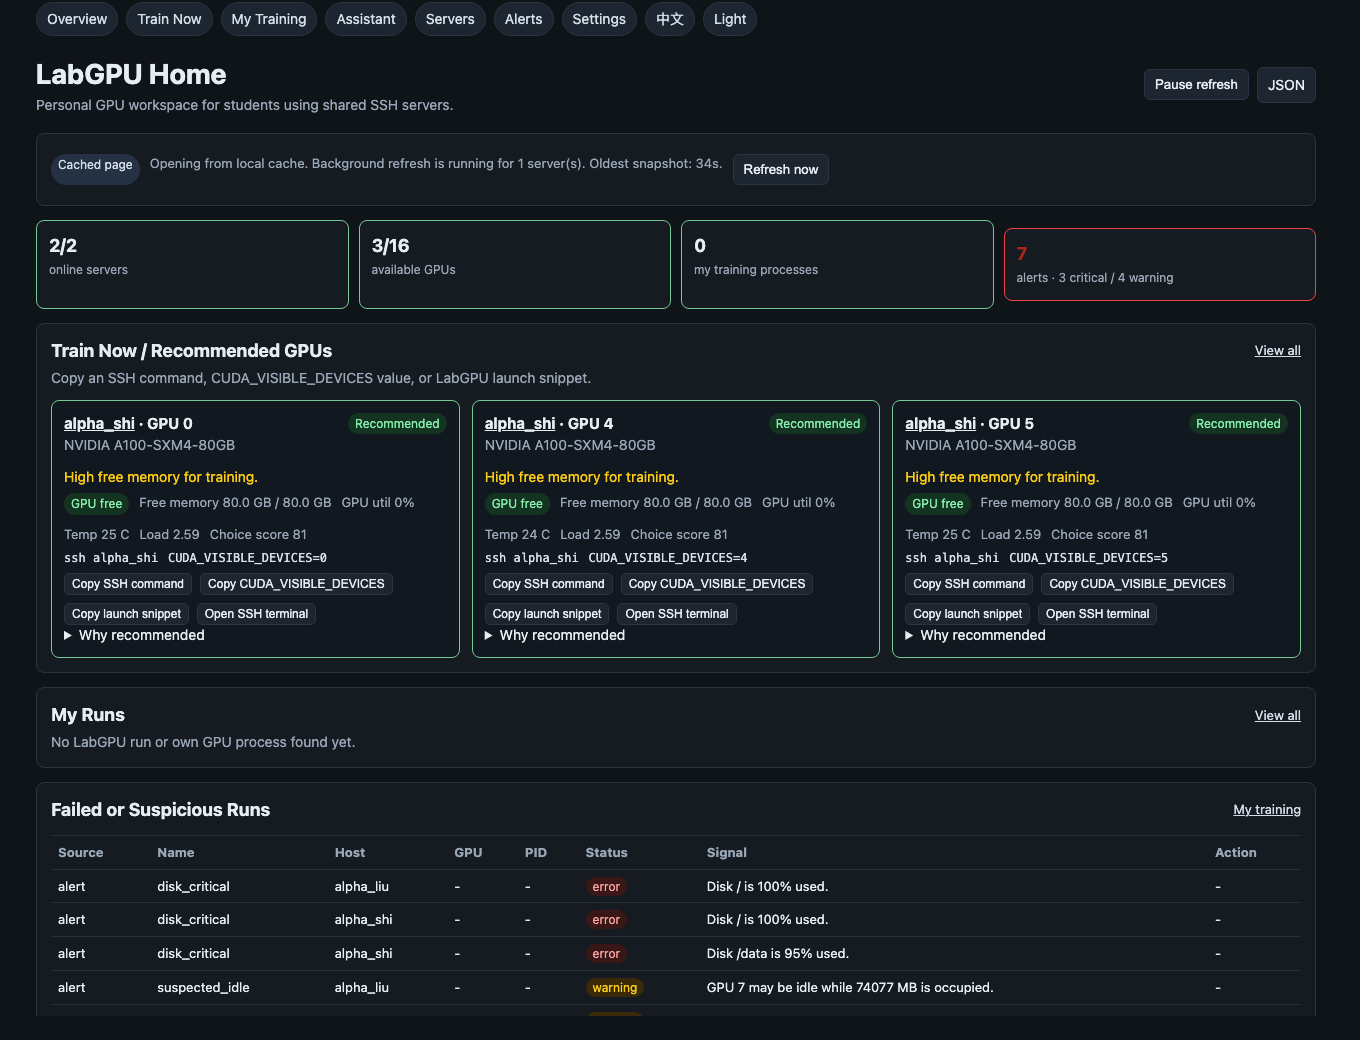
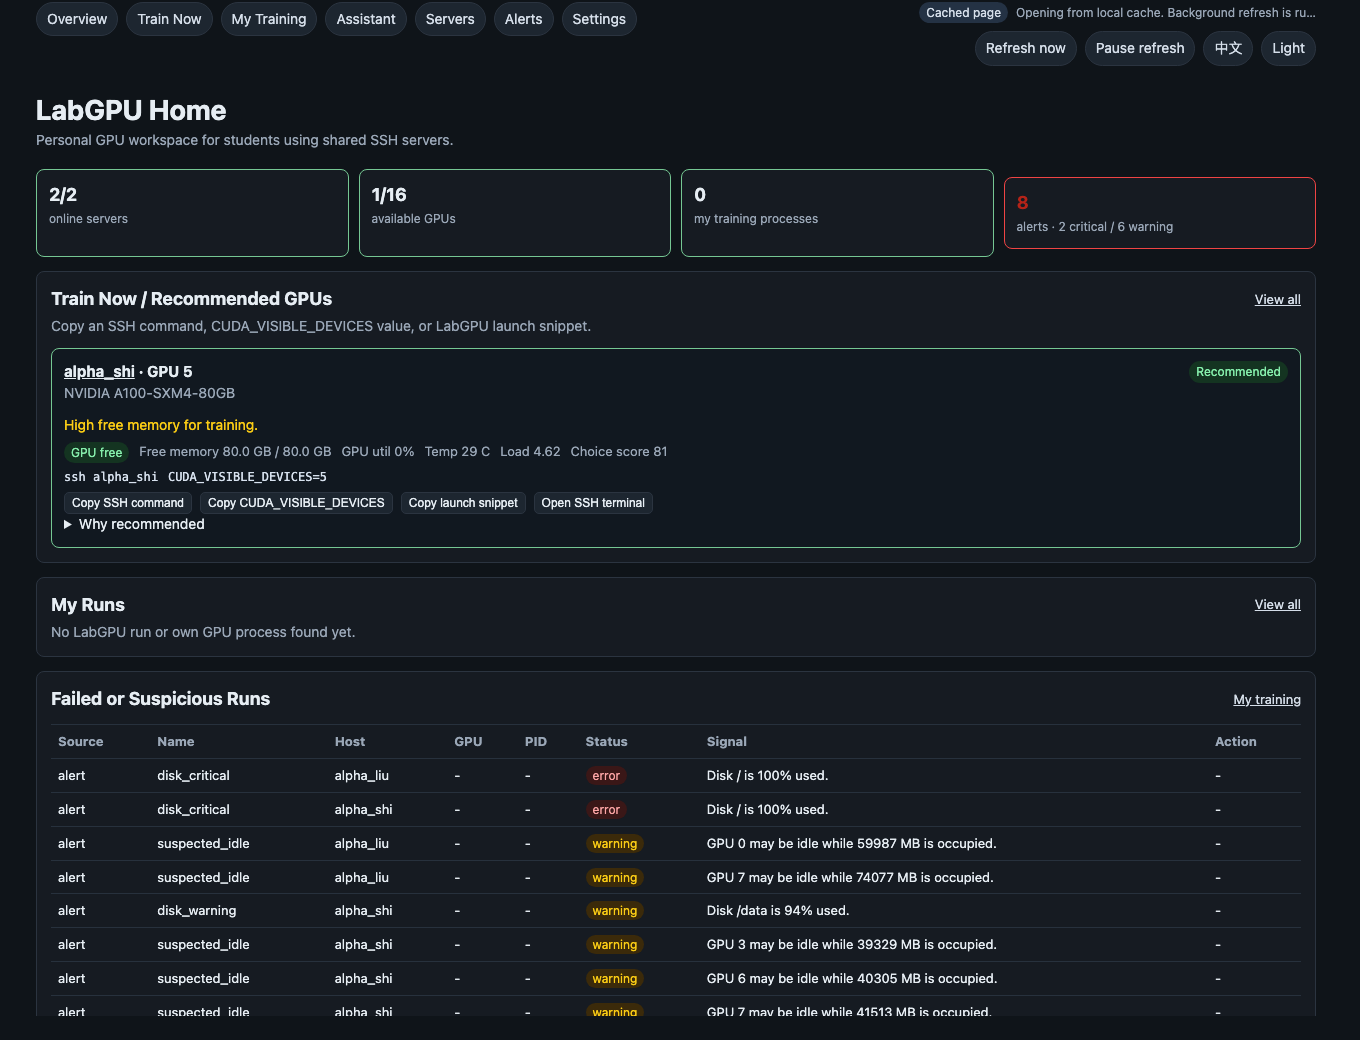
Move UI controls to top bar

diff --git a/src/labgpu/remote/dashboard.py b/src/labgpu/remote/dashboard.py
@@ -504,12 +504,7 @@ def render_index(data: dict[str, object]) -> str:
             <h1>LabGPU Home</h1>
             <p>Personal GPU workspace for students using shared SSH servers.</p>
           </div>
-          <div class="actions">
-            <button class="button" id="pause-refresh" type="button">Pause refresh</button>
-            <a class="button" href="/api/servers">JSON</a>
-          </div>
         </section>
-        {render_data_status(data)}
         {render_overview(overview)}
         {render_train_now(overview, limit=4)}
         {render_my_training(training_items(hosts, overview), limit=8, view_all='/me')}
@@ -517,6 +512,7 @@ def render_index(data: dict[str, object]) -> str:
         {render_alerts(overview.get('alert_items') if isinstance(overview, dict) else [], limit=8, view_all='/alerts', title='Problems')}
         <section class="panel"><div class="section-head"><h2>Servers</h2><a href="/settings">Choose home servers</a></div><p class="muted">{esc(server_note)}</p><div class="grid compact">{cards}</div></section>
         """,
+        status=render_data_status(data),
     )
 
 
@@ -531,13 +527,12 @@ def render_gpus_page(data: dict[str, object]) -> str:
             <h1>Train Now</h1>
             <p>Rank GPUs across SSH hosts by GPU availability, free VRAM, model, load, and tags.</p>
           </div>
-          <div class="actions"><button class="button" id="pause-refresh" type="button">Pause refresh</button><a class="button" href="/">Overview</a></div>
         </section>
-        {render_data_status(data)}
         {render_filters(ui, kind='gpus')}
         {render_gpu_watch_panel(ui)}
         {render_gpu_finder(overview, ui)}
         """,
+        status=render_data_status(data),
     )
 
 
@@ -553,13 +548,12 @@ def render_me_page(data: dict[str, object]) -> str:
             <h1>My Training</h1>
             <p>Your LabGPU runs, adopted runs, and agentless GPU processes across SSH servers.</p>
           </div>
-          <div class="actions"><button class="button" id="pause-refresh" type="button">Pause refresh</button><a class="button" href="/">Overview</a></div>
         </section>
-        {render_data_status(data)}
         {render_process_filters(ui)}
         {render_my_training(training_items(hosts, overview), ui=ui)}
         {render_my_processes(overview.get('my_process_items') if isinstance(overview, dict) else [], ui=ui, title='Agentless Own GPU Processes')}
         """,
+        status=render_data_status(data),
     )
 
 
@@ -576,12 +570,11 @@ def render_servers_page(data: dict[str, object]) -> str:
             <h1>Servers</h1>
             <p>Configured SSH GPU servers, health, disks, and free/busy GPUs.</p>
           </div>
-          <div class="actions"><button class="button" id="pause-refresh" type="button">Pause refresh</button><a class="button" href="/settings">Settings</a></div>
         </section>
-        {render_data_status(data)}
         {render_server_filters(ui)}
         <section class="grid">{cards}</section>
         """,
+        status=render_data_status(data),
     )
 
 
@@ -596,12 +589,11 @@ def render_alerts_page(data: dict[str, object]) -> str:
             <h1>Alerts</h1>
             <p>Disk, SSH, GPU, and process conditions that need attention.</p>
           </div>
-          <div class="actions"><button class="button" id="pause-refresh" type="button">Pause refresh</button><a class="button" href="/">Overview</a></div>
         </section>
-        {render_data_status(data)}
         {render_alert_filters(ui)}
         {render_alerts(overview.get('all_alert_items') if isinstance(overview, dict) else [], ui=ui, title='All Alerts')}
         """,
+        status=render_data_status(data),
     )
 
 
@@ -625,7 +617,11 @@ def render_settings_page(*, ssh_config: str | Path | None = None) -> str:
             <h1>Settings</h1>
             <p>Import SSH hosts and manage the server inventory stored in <code>~/.labgpu/config.toml</code>.</p>
           </div>
-          <div class="actions"><a class="button" href="/">Overview</a><a class="button" href="/servers">Servers</a></div>
+        </section>
+        <section class="panel">
+          <h2>Interface</h2>
+          <label class="inline-setting"><input type="checkbox" id="show-json-toggle"> Show JSON/API links</label>
+          <p class="muted">Show raw JSON/API links in the top-right controls. Most users can leave this off.</p>
         </section>
         <section class="panel">
           <h2>Saved Servers</h2>
@@ -660,9 +656,7 @@ def render_assistant_page(data: dict[str, object]) -> str:
             <h1>LabGPU Assistant</h1>
             <p>Chat with your GPU workspace. Read-only and copy-only in this alpha.</p>
           </div>
-          <div class="actions"><a class="button" href="/">Overview</a><a class="button" href="/gpus">Train Now</a></div>
         </section>
-        {render_data_status(data)}
         <section class="panel assistant-panel">
           <div class="assistant-examples">
             <button class="small" type="button" data-assistant-example="Find me a 24G A100 for python train.py --config configs/sft.yaml">Find a GPU</button>
@@ -683,6 +677,7 @@ def render_assistant_page(data: dict[str, object]) -> str:
         </section>
         {render_train_now(overview, limit=3)}
         """,
+        status=render_data_status(data),
     )
 
 
@@ -719,16 +714,13 @@ def render_data_status(data: dict[str, object]) -> str:
     else:
         message = f"Opening from local cache. Oldest snapshot: {age}."
     scope = scope_note(data)
-    scope_html = f"<span>{esc(scope)}</span>" if scope else ""
+    scope_html = f"<span class='badge warning' title='{esc(scope)}'>Scoped</span>" if scope else ""
     return (
-        "<section class='panel'>"
-        "<div class='meta'>"
+        "<div class='cache-status'>"
         "<span class='badge'>Cached page</span>"
-        f"<span>{esc(message)}</span>"
+        f"<span class='cache-message'>{esc(message)}</span>"
         f"{scope_html}"
-        "<button class='button' id='refresh-now' type='button'>Refresh now</button>"
         "</div>"
-        "</section>"
     )
 
 
@@ -1241,23 +1233,19 @@ def render_detail(data: dict[str, object]) -> str:
     host = hosts[0] if hosts else {}
     if not isinstance(host, dict):
         host = {}
+    json_href = "/api/servers"
     if not host:
         content = "<p class='muted'>Server not found.</p>"
     else:
         host = display_with_cache(host)
+        json_href = f"/api/servers/{esc(host.get('alias'))}"
         content = f"""
         <section class="toolbar">
           <div>
             <h1>{esc(host.get('alias'))}</h1>
             <p>{esc(host.get('remote_hostname') or host.get('hostname') or '')}</p>
           </div>
-          <div class="actions">
-            <button class="button" id="pause-refresh" type="button">Pause refresh</button>
-            <a class="button" href="/">All servers</a>
-            <a class="button" href="/api/servers/{esc(host.get('alias'))}">JSON</a>
-          </div>
         </section>
-        {render_data_status(data)}
         {render_cache_notice(host)}
         {render_health(host)}
         {render_labgpu_runs(host)}
@@ -1265,7 +1253,7 @@ def render_detail(data: dict[str, object]) -> str:
         <section class="panel"><h2>GPUs</h2><div class="gpu-grid">{''.join(render_gpu_card(gpu, server_alias=host.get('alias')) for gpu in host.get('gpus') or [])}</div></section>
         <section class="panel"><h2>Processes</h2>{render_process_table(host.get('processes') or [], server_alias=host.get('alias'))}</section>
         """
-    return page("LabGPU Server", content)
+    return page("LabGPU Server", content, status=render_data_status(data), json_href=json_href)
 
 
 def render_host_card(host: object, *, compact: bool = False) -> str:
@@ -1623,7 +1611,7 @@ def process_evidence_text(proc: dict[str, object]) -> str:
     return "; ".join(parts)
 
 
-def page(title: str, body: str) -> str:
+def page(title: str, body: str, *, status: str = "", json_href: str = "/api/servers") -> str:
     return f"""<!doctype html>
 <html><head><meta charset="utf-8"><meta name="viewport" content="width=device-width, initial-scale=1">
 <title>{esc(title)}</title>
@@ -1673,8 +1661,14 @@ body{{font:14px/1.45 system-ui,sans-serif;margin:0;background:var(--bg);color:va
 main{{width:min(1280px,calc(100vw - 32px));margin:0 auto;padding:22px 0 36px}}
 h1,h2,h3,p{{margin:0}} h1{{font-size:28px}} h2{{font-size:18px}} h3{{font-size:15px}} p,.muted{{color:var(--muted)}}
 a{{color:inherit}} code{{font-family:ui-monospace,SFMono-Regular,Menlo,monospace;font-size:12px;color:var(--code)}}
-.topnav{{display:flex;gap:8px;align-items:center;flex-wrap:wrap;margin-bottom:18px}}
-.topnav a,.topnav button{{border:1px solid var(--border);background:var(--button);border-radius:999px;padding:6px 10px;text-decoration:none;color:var(--link);font:inherit;cursor:pointer}}
+.topbar{{display:flex;justify-content:space-between;gap:16px;align-items:flex-start;margin-bottom:24px}}
+.topnav,.top-controls{{display:flex;gap:8px;align-items:center;flex-wrap:wrap}}
+.top-controls{{justify-content:flex-end;max-width:min(560px,45vw)}}
+.topnav a,.top-controls a,.top-controls button{{border:1px solid var(--border);background:var(--button);border-radius:999px;padding:6px 10px;text-decoration:none;color:var(--link);font:inherit;cursor:pointer;white-space:nowrap}}
+.cache-status{{display:flex;gap:8px;align-items:center;justify-content:flex-end;flex:1 1 100%;min-width:min(420px,100%);color:var(--muted);font-size:12px}}
+.cache-message{{overflow:hidden;text-overflow:ellipsis;white-space:nowrap;max-width:min(300px,24vw)}}
+.json-control{{display:none!important}}
+html.show-json .json-control{{display:inline-flex!important}}
 dialog{{border:1px solid var(--border);border-radius:8px;background:var(--surface);color:var(--text);max-width:min(560px,calc(100vw - 32px));padding:18px}}
 dialog::backdrop{{background:rgba(0,0,0,.45)}}
 .modal-actions{{display:flex;gap:8px;justify-content:flex-end;margin-top:16px;flex-wrap:wrap}}
@@ -1684,6 +1678,7 @@ dialog::backdrop{{background:rgba(0,0,0,.45)}}
 .filters{{display:flex;gap:10px;align-items:end;flex-wrap:wrap;background:var(--surface);border:1px solid var(--border);border-radius:8px;padding:12px;margin-bottom:14px}}
 .filters label{{display:flex;flex-direction:column;gap:4px;color:var(--muted);font-size:12px}}
 .filters input,.filters select{{border:1px solid var(--border);border-radius:6px;padding:7px 8px;min-width:150px;background:var(--button);color:var(--text)}}
+.inline-setting{{display:flex;gap:8px;align-items:center;margin-top:8px}}
 .grid{{display:grid;grid-template-columns:repeat(auto-fit,minmax(420px,1fr));gap:14px}}
 .grid.compact{{grid-template-columns:repeat(auto-fit,minmax(260px,1fr))}}
 .split{{display:grid;grid-template-columns:repeat(auto-fit,minmax(420px,1fr));gap:14px;align-items:start}}
@@ -1726,8 +1721,9 @@ html[data-theme="dark"] .pill.online{{color:#86efac;background:#143421}} html[da
 html[data-theme="dark"] .badge.ok{{background:#143421;color:#86efac}} html[data-theme="dark"] .badge.warning{{background:#3b2a0a;color:#facc15}} html[data-theme="dark"] .badge.error{{background:#3a1717;color:#fca5a5}}
 html[data-theme="dark"] .warn-text{{color:#facc15}}
 html[data-theme="dark"] .danger{{color:#fca5a5;border-color:#7f1d1d}}
+@media(max-width:860px){{.topbar{{flex-direction:column}}.top-controls{{justify-content:flex-start;max-width:none}}.cache-message{{max-width:calc(100vw - 96px)}}}}
 @media(max-width:640px){{main{{width:calc(100vw - 20px)}}.grid,.split{{grid-template-columns:1fr}}.toolbar{{align-items:flex-start;flex-direction:column}}.assistant-form{{grid-template-columns:1fr}}}}
-</style></head><body><main>{render_nav()}{body}</main>
+</style></head><body><main>{render_nav(status=status, json_href=json_href)}{body}</main>
 <dialog id="stop-modal">
   <h2>Stop process?</h2>
   <p class="muted">This stops the single PID shown below. Child processes may continue unless this is a LabGPU-tracked run.</p>
@@ -1753,6 +1749,7 @@ const actionToken = "{esc(ServerHandler.action_token)}";
 let selectedStopButton = null;
 const themeButton = document.getElementById("theme-toggle");
 const languageButton = document.getElementById("language-toggle");
+const jsonToggle = document.getElementById("show-json-toggle");
 const translations = {{
   "Overview": "总览",
   "Train Now": "现在开跑",
@@ -1766,6 +1763,10 @@ const translations = {{
   "Resume refresh": "继续刷新",
   "Refresh now": "立即刷新",
   "Cached page": "缓存页面",
+  "Scoped": "范围固定",
+  "Interface": "界面",
+  "Show JSON/API links": "显示 JSON/API 链接",
+  "Show raw JSON/API links in the top-right controls. Most users can leave this off.": "在右上角控制区显示原始 JSON/API 链接。大多数用户可以保持关闭。",
   "Dark": "深色",
   "Light": "浅色",
   "LabGPU Home": "LabGPU 主页",
@@ -1941,7 +1942,13 @@ function applyTheme(theme) {{
   document.documentElement.dataset.theme = dark ? "dark" : "light";
   updateThemeButton();
 }}
+function applyJsonPreference() {{
+  const enabled = localStorage.getItem("labgpu-show-json") === "1";
+  document.documentElement.classList.toggle("show-json", enabled);
+  if (jsonToggle) jsonToggle.checked = enabled;
+}}
 try {{
+  applyJsonPreference();
   applyTheme(localStorage.getItem("labgpu-theme") || "system");
   applyLanguage(currentLanguage());
   if (themeButton) {{
@@ -1956,6 +1963,12 @@ try {{
       const next = currentLanguage() === "zh" ? "en" : "zh";
       localStorage.setItem("labgpu-language", next);
       applyLanguage(next);
+    }});
+  }}
+  if (jsonToggle) {{
+    jsonToggle.addEventListener("change", () => {{
+      localStorage.setItem("labgpu-show-json", jsonToggle.checked ? "1" : "0");
+      applyJsonPreference();
     }});
   }}
 }} catch (error) {{}}
@@ -2224,18 +2237,26 @@ def known_ssh_aliases(ssh_config: str | Path | None = None) -> set[str]:
     return {alias for alias in aliases if alias}
 
 
-def render_nav() -> str:
-    return """
-    <nav class="topnav">
-      <a href="/">Overview</a>
-      <a href="/gpus">Train Now</a>
-      <a href="/me">My Training</a>
-      <a href="/assistant">Assistant</a>
-      <a href="/servers">Servers</a>
-      <a href="/alerts">Alerts</a>
-      <a href="/settings">Settings</a>
-      <button id="language-toggle" type="button">中文</button>
-      <button id="theme-toggle" type="button">Dark</button>
+def render_nav(*, status: str = "", json_href: str = "/api/servers") -> str:
+    return f"""
+    <nav class="topbar">
+      <div class="topnav" aria-label="Primary navigation">
+        <a href="/">Overview</a>
+        <a href="/gpus">Train Now</a>
+        <a href="/me">My Training</a>
+        <a href="/assistant">Assistant</a>
+        <a href="/servers">Servers</a>
+        <a href="/alerts">Alerts</a>
+        <a href="/settings">Settings</a>
+      </div>
+      <div class="top-controls" aria-label="Display and refresh controls">
+        {status}
+        <button id="refresh-now" type="button">Refresh now</button>
+        <button id="pause-refresh" type="button">Pause refresh</button>
+        <a class="json-control" href="{esc(json_href)}">JSON</a>
+        <button id="language-toggle" type="button">中文</button>
+        <button id="theme-toggle" type="button">Dark</button>
+      </div>
     </nav>
     """
 
